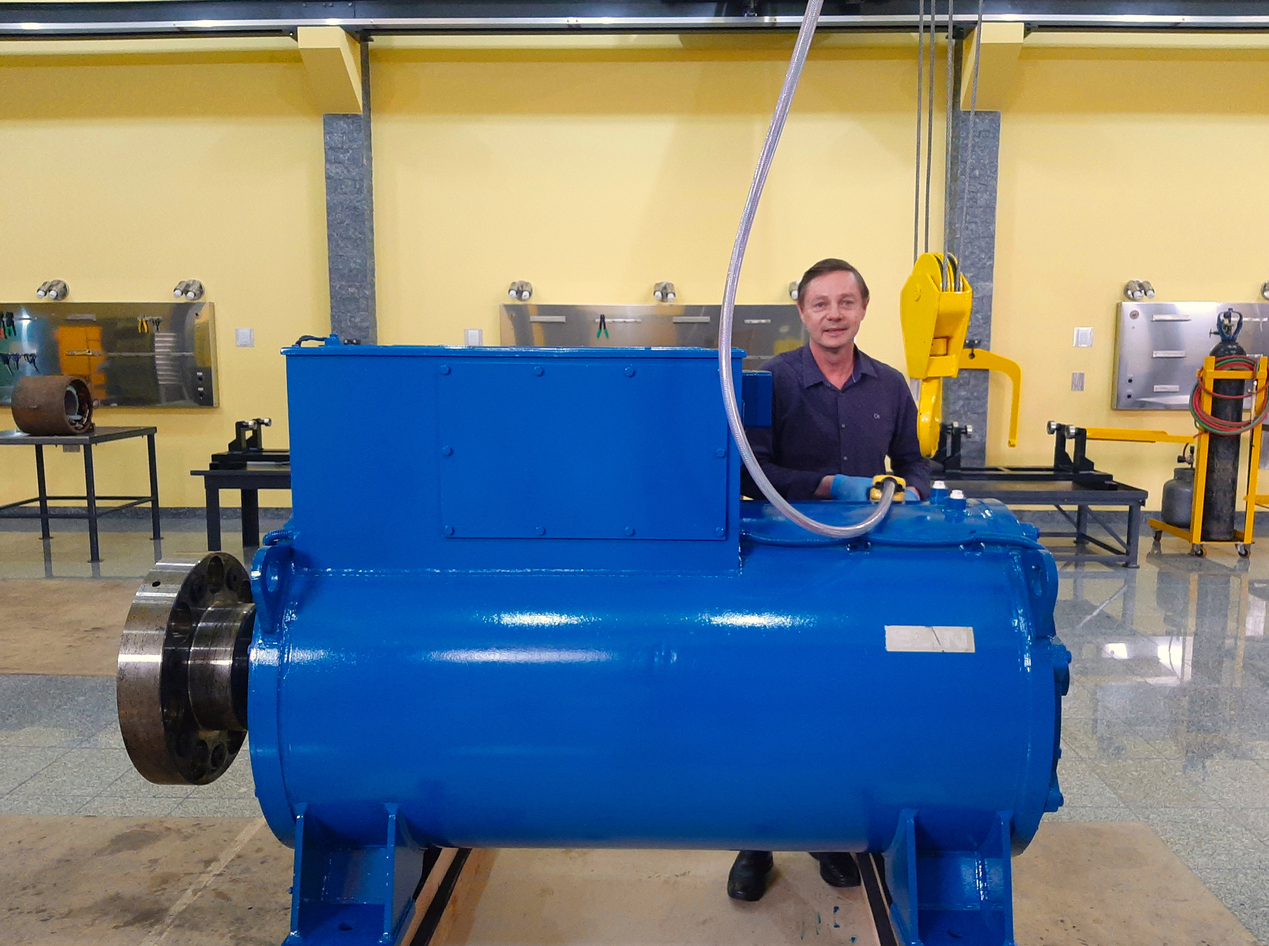
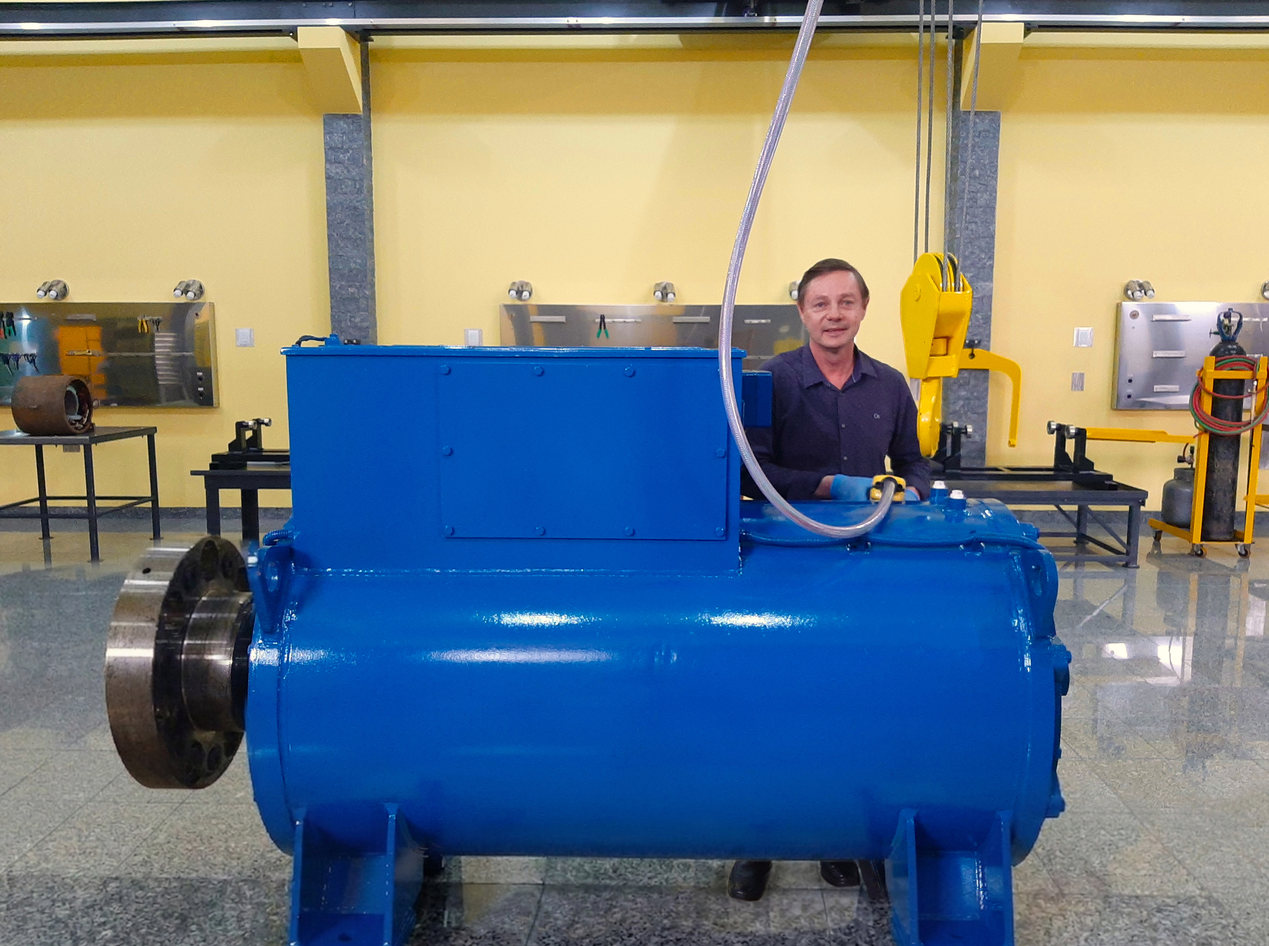
Add files via upload

diff --git a/index.html b/index.html
@@ -66,8 +66,8 @@
 
         .hero-title {
             font-size: var(--title-hero);
-            line-height: 0.98;
-            letter-spacing: -0.05em;
+            line-height: 0.97;
+            letter-spacing: -0.03em;
         }
 
         .section-title {
@@ -78,7 +78,7 @@
         }
 
         .yellow-gradient-text {
-            background: linear-gradient(to right, #fbbf24, #f59e0b);
+            background: linear-gradient(to right, #fbbf24, #fbbf24);
             -webkit-background-clip: text;
             -webkit-text-fill-color: transparent;
         }
@@ -272,7 +272,7 @@
 <body class="text-zinc-100">
 
     <nav class="nav-style text-white sticky top-0 z-50">
-        <div class="container mx-auto px-6 py-[var(--nav-y)] flex justify-between items-center">
+        <div class="container mx-auto px-6 py-[var(--nav-y)] flex justify-between items-center" >
             <div class="flex items-center">
                 <span class="text-2xl font-black tracking-tighter uppercase">
                     Eletro <span class="text-yellow-500">Energia</span>
@@ -291,7 +291,7 @@
     </nav>
 
     <header class="hero-bg">
-        <div class="container mx-auto px-6">
+        <div class="container mx-auto px-6 " style="margin-left: 8%;">
             <div class="max-w-2xl">
                 <span class="text-yellow-500 font-bold tracking-[0.3em] uppercase md:text-base mb-4 block">Ponta Grossa - PR</span>
                 <h1 class="hero-title font-black text-white mb-5 uppercase">Eletro Energia <br><span class="yellow-gradient-text">Motores Elétricos</span></h1>
@@ -341,7 +341,7 @@
             <div class="profile-card rounded-[2rem] p-8 md:p-10 border border-white/5 relative overflow-hidden group">
                 <div class="absolute -right-10 -top-10 w-32 h-32 bg-yellow-500/5 rounded-full blur-3xl group-hover:bg-yellow-500/10 transition-all"></div>
                 
-                <div class="flex flex-col lg:flex-row gap-8 items-start">
+                <div class="flex flex-col lg:flex-row gap-8 items-center lg:items-start">
                     <div class="media flex-shrink-0 shadow-2xl border-2 border-yellow-500/20" style="--w: 14rem; --h: 18.75rem; --fit: cover; --radius: 1.25rem;">
                         <img src="Mauro.jpeg" alt="Mauro Francisco Penckowski">
                     </div>
@@ -365,12 +365,13 @@
                     </div>
                 </div>
             </div>
+            
 
             <!-- Vinicius -->
             <div class="profile-card rounded-[2rem] p-8 md:p-10 border border-white/5 relative overflow-hidden group">
                 <div class="absolute -right-10 -top-10 w-32 h-32 bg-yellow-500/5 rounded-full blur-3xl group-hover:bg-yellow-500/10 transition-all"></div>
 
-                <div class="flex flex-col lg:flex-row gap-8 items-start">
+                <div class="flex flex-col lg:flex-row gap-8 items-center lg:items-start">
                     <div class="media flex-shrink-0 shadow-2xl border-2 border-yellow-500/20" style="--w: 11.25rem; --h: 18.75rem; --fit: cover; --radius: 1.25rem;">
                         <img src="MaquinasEletricasMauroVinicius.jpeg" alt="Vinícius Penckowski">
                     </div>
@@ -429,7 +430,7 @@
                             <li>Sopradores</li>
                             <li>Geradores</li>
                             <li>Motores com múltiplas velocidades</li>
-                            <li>Motores de Corrente Contínua</li>
+                            <li>Motores de corrente contínua</li>
                             <li>Repotencialização de motores</li>
                             <li>Modificação de frequência</li>
                             <li>Modificação de tensão</li>
@@ -548,13 +549,13 @@
             <h2 class="section-title font-black uppercase mb-8">Nossos <span class="text-yellow-500">Equipamentos</span></h2>
             <div class="grid grid-cols-2 md:grid-cols-4 gap-6">
                 <div class="flex flex-col items-center"><div class="media w-full" style="--ratio: 4/3;"><img src="Estufas.jpeg"></div><p class="md:text-sm mt-2">Estufas</p></div>
-                <div class="flex flex-col items-center"><div class="media w-full" style="--ratio: 4/3;"><img src="Pintura.jpeg"></div><p class="md:text-sm mt-2">Cabine de Pintura</p></div>
+                <div class="flex flex-col items-center"><div class="media w-full" style="--ratio: 4/3;"><img src="Pintura.jpeg"></div><p class="md:text-sm mt-2">Cabine de pintura</p></div>
                 <div class="flex flex-col items-center"><div class="media w-full" style="--ratio: 4/3;"><img src="BobinadeiraAutomatica.jpg"></div><p class="md:text-sm mt-2">Bobinadeira automática</p></div>
                 <div class="flex flex-col items-center"><div class="media w-full" style="--ratio: 4/3;"><img src="Balanceador.jpeg"></div><p class="md:text-sm mt-2">Balanceador</p></div>
             </div>
             <br>
                         <div class="grid grid-cols-2 md:grid-cols-4 gap-6">
-                <div class="flex flex-col items-center"><div class="media w-full" style="--ratio: 4/3;"><img src="Paineis1.jpeg"></div><p class="md:text-sm mt-2">Paineis</p></div>
+                <div class="flex flex-col items-center"><div class="media w-full" style="--ratio: 4/3;"><img src="Paineis1.jpeg"></div><p class="md:text-sm mt-2">Painéis</p></div>
                 <div class="flex flex-col items-center"><div class="media w-full" style="--ratio: 4/3;"><img src="guia1.jpeg"></div><p class="md:text-sm mt-2">Suportes</p></div>
                 <div class="flex flex-col items-center"><div class="media w-full" style="--ratio: 4/3;"><img src="TesteCC.jpeg"></div><p class="md:text-sm mt-2">Testes CC/CA</p></div>
                 <div class="flex flex-col items-center"><div class="media w-full" style="--ratio: 4/3;"><img src="Tanque.jpeg"></div><p class="md:text-sm mt-2">Tanque de envernizamento</p></div>
@@ -672,7 +673,7 @@
 
             <!-- Coluna 1: Info Empresa -->
             <div>
-                <h4 class="text-white font-black uppercase tracking-[0.25em] text-base mb-5">
+                <h4 class="text-white font-black uppercase  text-base mb-5">
                     Eletro Energia
                 </h4>
                 <p class="text-zinc-400 text-sm leading-relaxed mb-5 max-w-xs">
@@ -681,27 +682,28 @@
                 <div class="w-8 h-[2px] bg-yellow-500 mb-4"></div>
                 <p class="text-zinc-600 md:text-base font-mono">
                     CNPJ: 02.548.933/0001-43
+                    <br>
                 </p>
+                <br>
+                Email: <a href="mailto:MauroEletroEnergia@gmail.com">MauroEletroEnergia@gmail.com</a>
             </div>
 
             <!-- Coluna 2: Localização -->
             <div>
-                <h4 class="text-white font-black uppercase tracking-[0.25em] text-base mb-5">
+                <h4 class="text-white font-black uppercase  text-base mb-5">
                     Localização
                 </h4>
                 <p class="text-zinc-300 text-sm leading-relaxed mb-4">
                     Rua José do Patrocínio, 222<br>
-                    Vila Estrela — Ponta Grossa - PR
+                    Ponta Grossa - PR
                 </p>
                 <!-- MAPA MAIS COMPACTO -->
                 <div class="w-full h-32 rounded-lg overflow-hidden mb-3 border border-white/5">
-                    <iframe 
-                        src="https://www.google.com/maps?q=Rua+José+do+Patrocínio,+222,+Ponta+Grossa+PR&output=embed"
-                        class="w-full h-full opacity-80 hover:grayscale-0 transition-all duration-500" 
+                    <iframe src="https://www.google.com/maps/embed?pb=!1m14!1m8!1m3!1d1806.41008143215!2d-50.16099670923952!3d-25.107948285894203!3m2!1i1024!2i768!4f13.1!3m3!1m2!1s0x94e81a5e6e110fbf%3A0xa21c5626d2f2a3bc!2sEletro%20Energia%20-%20Motores%20El%C3%A9tricos%20Ltda!5e0!3m2!1spt-BR!2sus!4v1778025993586!5m2!1spt-BR!2sus"                     class="w-full h-full opacity-80 hover:grayscale-0 transition-all duration-500" 
                         loading="lazy">
                     </iframe>
                 </div>
-                <a href="https://maps.app.goo.gl/YourGoogleMapsLink" target="_blank"
+                <a href="https://www.google.com/maps/embed?pb=!1m14!1m8!1m3!1d1806.41008143215!2d-50.16099670923952!3d-25.107948285894203!3m2!1i1024!2i768!4f13.1!3m3!1m2!1s0x94e81a5e6e110fbf%3A0xa21c5626d2f2a3bc!2sEletro%20Energia%20-%20Motores%20El%C3%A9tricos%20Ltda!5e0!3m2!1spt-BR!2sus!4v1778025993586!5m2!1spt-BR!2sus" target="_blank"
                    class="text-yellow-500 hover:text-yellow-400 md:text-sm font-bold uppercase tracking-widest transition">
                     Ver no Google Maps
                 </a>
@@ -709,20 +711,25 @@
 
             <!-- Coluna 3: WhatsApp (Agora alinhada no topo) -->
             <div>
-                <h4 class="text-white font-black uppercase tracking-[0.25em] text-base mb-5">
+                <h4 class="text-white font-black uppercase text-base mb-5">
                     WhatsApp
                 </h4>
                 <a href="https://wa.me/5542999723775"
-                   class="group inline-flex items-center gap-2 bg-green-600 hover:bg-green-500 transition-all duration-300 text-white px-6 py-3 rounded-md font-bold uppercase text-[11px] shadow-lg">
+                   class="group inline-flex items-center gap-2 bg-green-600 hover:bg-green-500 transition-all duration-300 text-white px-6 py-3 rounded-md font-bold uppercase text-[20px] shadow-lg">
                     <svg xmlns="http://www.w3.org/2000/svg" viewBox="0 0 32 32" class="w-4 h-4 fill-current">
                         <path d="M16 .396C7.164.396 0 7.56 0 16.396c0 2.89.756 5.707 2.188 8.188L0 32l7.613-2.156a15.94 15.94 0 0 0 8.387 2.336h.006c8.836 0 16-7.164 16-16S24.836.396 16 .396zm0 29.23c-2.523 0-4.996-.676-7.156-1.957l-.512-.305-4.52 1.281 1.207-4.402-.332-.539a13.42 13.42 0 0 1-2.055-7.207c0-7.41 6.027-13.438 13.438-13.438s13.438 6.027 13.438 13.438-6.027 13.438-13.438 13.438zm7.383-10.094c-.402-.201-2.379-1.176-2.746-1.309-.367-.134-.635-.201-.904.201-.268.402-1.039 1.309-1.273 1.578-.234.268-.469.301-.871.1-.402-.201-1.699-.626-3.236-1.996-1.195-1.066-2.004-2.379-2.238-2.781-.234-.402-.025-.619.176-.82.18-.179.402-.469.603-.703.201-.234.268-.402.402-.67.134-.268.067-.502-.034-.703-.1-.201-.904-2.18-1.238-2.984-.326-.783-.657-.676-.904-.689l-.77-.013c-.268 0-.703.1-1.07.502s-1.402 1.371-1.402 3.342 1.438 3.873 1.637 4.141c.201.268 2.83 4.32 6.857 6.055.958.414 1.705.661 2.287.846.961.306 1.836.263 2.528.159.771-.115 2.379-.972 2.715-1.91.335-.938.335-1.742.234-1.91-.1-.168-.367-.268-.77-.469z"/>
                     </svg>
-                    Conversar Agora
+                    Conversar
                 </a>
+                <br><br>
+                <div class="w-8 h-[2px] bg-yellow-500 mb-4"></div>
                 <p class="text-zinc-600 md:text-sm uppercase tracking-widest mt-5">
                     Segunda a Sexta 
-                    <br>08h às 11h e das 13 ás 17h
+                    <br>08h às 11h e das 13h às 17h
+                    <br><br>
+                   
                 </p>
+                Fone: <a href="tel:42999723775">(42) 99972-3775</a>
             </div>
         </div>
 
